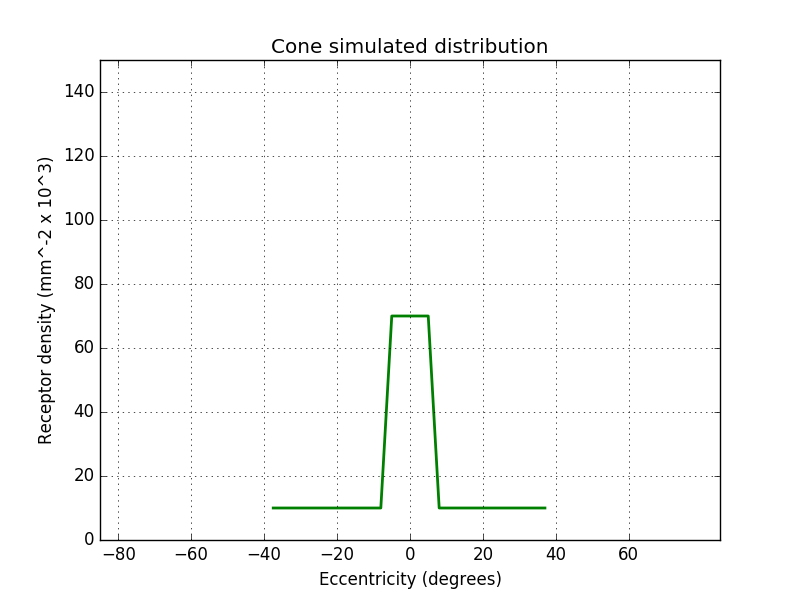
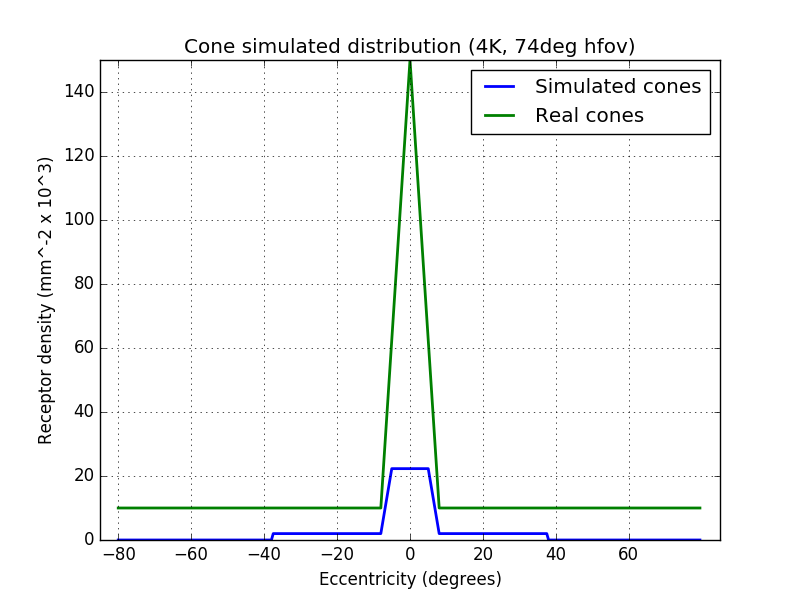
:bug: fix camera equivalent density

Changed region(s): [[0.1562, 0.06, 0.9062, 0.9]]

diff --git a/pages/artificial_intelligence/sensors/retina/retina_modelisation.md b/pages/artificial_intelligence/sensors/retina/retina_modelisation.md
@@ -12,7 +12,8 @@ Just to recap the context of this simulation, my final goal is to create a biomi
 Plan
 - [Retina Modelisation from a Camera](#retina-modelisation-from-a-camera)
   - [Photo Receptors Simulation](#photo-receptors-simulation)
-    - [Cones inside the Fovea](#cones-inside-the-fovea)
+    - [Pixel density equivalence](#pixel-density-equivalence)
+    - [Cones density inside the Fovea](#cones-density-inside-the-fovea)
     - [Outside of the fovea](#outside-of-the-fovea)
     - [Simulated cones distribution](#simulated-cones-distribution)
     - [Pixel limitations](#pixel-limitations)
@@ -22,7 +23,7 @@ Plan
     - [How many Ganglionar cells](#how-many-ganglionar-cells)
     - [How many cones per parasol cells?](#how-many-cones-per-parasol-cells)
   - [Notes](#notes)
-- [Biblio](#biblio)
+  - [Biblio](#biblio)
 
 ----------------------------------------------------------
 ## Photo Receptors Simulation
@@ -56,23 +57,13 @@ The main issue is to consider the repartition of the cones inside the retina!
     <img src="img/copyleft_logo.png" height="12" alt="copy-left" />
 </center>
 
-### Cones inside the Fovea
+### Pixel density equivalence
+The pixel density per mm² is constant in a camera. They form a grid with a constant space between them. However, we cannot use the real pixel density directly because the focal length is not the same as the one in the eye.
+To get an equivalence with the cone density, we need to determine how many pixels there are in 5° which represent the fovea surface (1.5mm diameter). This number is mainly dependent on 2 properties of the camera: the resolution and the field of view.  I will use a 4K smartphone camera as example.
 
-The fovea area contains approximately 200 000 cones [7] with a field of view around 5°.
-
-We can estimate the diameter of the fovea in 'cones' using the area of a disc.
-
-The fovea has a diameter of $\sqrt(\frac{200.000}{\pi})\times2 \approx 504$ cones which represents $1.5mm$
-
-We need to determine 2 values:
-- how many pixel per cones inside the fovea
-- how many pixel per cones outside the fovea
-
-Let see how many pixels we have in 5° with a 4K camera from a smartphone.
-
-First I need to find the angular field of view of my smartphone. I could not find mine in the datasheet so estimated it. To do this chose an object, I positioned the camera so that the object took exactly the width of my camera view. Then I used simple trigonometry relations.
+First you need to find the angular field of view of your camera. I could not find mine in the datasheet so estimated it. To do this choose an object, put your camera so that the object takes exactly the width of your camera view. Then use simple trigonometry relations $(1) (2)$.
 <center>
-<a href="https://thebrain.mcgill.ca/flash/i/i_02/i_02_cl/i_02_cl_vis/i_02_cl_vis.html" rel="some text"><img src="img/pinhole.jpg" alt="Cones/Rods distribution" /></a>
+<a href="" rel="some text"><img src="img/pinhole.jpg" alt="Cones/Rods distribution" /></a>
 </center>
 <center>
     <i>Fig. 4. Camera field of view &alpha;  </i>
@@ -86,40 +77,64 @@ First I need to find the angular field of view of my smartphone. I could not fin
 
 from $(1)$ we can deduce that:
 
-\begin{equation}alpha = 2\times\tan(\frac{L}{2D})\end{equation}
+\begin{equation}alpha = 2\times\arctan(\frac{L}{2D})\end{equation}
 
 With my phone camera, I measured $L = 480 mm$ and $D = 320mm$. This give an horizontal field of view around 74°
 
-To determine the diameter in pixels of 5° at the center of my camera $(p_f)$, I need to use the formula $(3)$ with $alpha_f = 5°$. It gives me 224 horizontal pixels. This means that there are **157 632** pixels in 5° disk ( $\pi\times R^2$ with $R=224/2$ ).
+To get the pixel density equivalence we need to divide the number of pixels within 5° by the equivalent surface in the retina: 1.5mm².
 
-\begin{equation}p_f = \texttt{total_pixels_width}\times\frac{l_f}{L}\end{equation}
+To determine the diameter in pixels of 5° at the center of your camera $(d_p)$, you can use the formula $(3)$ with $alpha_f = 5°$. In my case, it gives me 224 horizontal pixels. This means that there are **39408** pixels in 5° disk ( $\pi\times R^2$ with $R=224/2$ ).
+
+\begin{equation}d_p = \texttt{total_pixels_width}\times\frac{l_f}{L}\end{equation}
 
 with
 
-\begin{equation}l_f = 2\times D\tan(\frac{\alpha_f}{2})\end{equation} $(4)$ deduced from $(1)$.
+\begin{equation}l_f = 2\times D\tan(\frac{\alpha_f}{2})\end{equation}
 
-$l_f$ represent the maximum width of an object at a distance D that can be seen within $\alpha_f$ degrees
+$(4)$ deduced from $(1)$. $l_f$ represent the maximum width of an object at a distance D that can be seen within $\alpha_f$ degrees
 
-To recap, there are 200.000 cones vs 157 632 pixels in the fovea. I can only represent 79% of the cones in the fovea. The overall cone density inside the fovea is 88.880 cones/mm² with the camera we can reach only 70 058 cones/mm² *Here I made the assumption that the density of cones were constant in the fovea however it is not the case. There is an area called FAZ (foveal avascular zone) that has a higher density. I flatten this because the camera is already overwhelmed ...*
+Now that we have the total number of pixels in 5° we can just divide it by 1.5mm² to get the equivalent pixel density. Note in the equation below I used directly the diameter instead of the radius but its equivalent.
+
+\begin{equation}\texttt{pix_equ_density} = \frac{\pi\times d_p^2}{\pi\times 1.5^2}\end{equation}
+
+
+In conclusion, the equivalent pixel density of the smartphone is **22 300 pixels/mm² inside the retina**
+
+### Cones density inside the Fovea
+The cone density in the fovea peaks at 150 000 cones/mm² in FAZ (foveal avascular zone) and decrease quickly.
+The total fovea area contains approximately 200 000 cones [7] with a field of view around 5°. We can deduce that the average density inside the fovea is 113 000 cone/mm² ($\frac{200000}{\pi\times (\frac{1.5}{1})^2}$)
+
+With the 4K camera I have no choice but to under sample the foveal cone density by a factor 0.20 ($\frac{22 300}{113000}$)
+
+To get another view on the difference their are 39400 pixels vs 200 000 cones!
 
 ### Outside of the fovea
 
-Outside the fovea, the cone density is 10.000 cones per mm². In a surface equivalent to the fovea this represent $\pi \times \frac{1.5}{2}^2*10 000 = 17 671$ cones with a diameter of $\sqrt(\frac{17 671}{\pi})\times2 \approx 150$. The ratio pixels per cone is 8.9
+Outside the fovea, the cone density is 10.000 cones per mm². This part at least we can simulate it without downsampling by using one pixel out of two.
 
 ### Simulated cones distribution
 
-As we does not have enough pixels in the fovea I decided to flatten the retina peak and I linearized the transition (for simplicity)
+If we try to simulate as close as possible the human cone density we have the following table:
+| position      | pixel per cone ratio |simulated density | real cone density         | real max density  |
+|:-:            |:-:                   |:-:               |:-:                        |:-:                |
+| in fovea      | 0.20                 | 22 300 cones/mm² | 113 000 cones/mm² (avg)   | 150 000 cones/mm² |
+| outside fovea | 2.2                  | 10 000 cones/mm² | 10 000 cones/mm² (avg)    | 10 000 cones/mm²  |
+
+Instead of having a factor 10 between the foveal density and outer density we have only a factor 2.
+
+For the simulation I preferred to keep this factor by decreasing the outer ratio. This means that my simulated retina is equivalent to a human eye that has lost 80% its cones. There are 2 ways to reduce this gap, by using a reduced field of view with a zoom or by using a camera with a higher resolution. For my use case it 'should' be enough so I kept this.
 
 | position      | pixel per cone ratio |simulated density | real cone density         | real max density  |
 |:-:            |:-:                   |:-:               |:-:                        |:-:                |
-| in fovea      | 0.79                 | 70 058 cones/mm² | 88 888 cones/mm² (avg)    | 150 000 cones/mm² |
-| outside fovea | 8.9                  | 10 000 cones/mm² | 10 000 cones/mm² (avg)    | 10 000 cones/mm²  |
+| in fovea      | 0.20                 | 22 300 cones/mm² | 113 000 cones/mm² (avg)   | 150 000 cones/mm² |
+| outside fovea | 2.2 (11 for 2000)    |  2 000 cones/mm² | 10 000 cones/mm² (avg)    | 10 000 cones/mm²  |
+
 
 <center>
-<a href="https://thebrain.mcgill.ca/flash/i/i_02/i_02_cl/i_02_cl_vis/i_02_cl_vis.html" rel="some text"><img src="img/cone_simulated_distribution.png" alt="Cones/Rods distribution" /></a>
+<a href="" rel="some text"><img src="img/cone_simulated_distribution.png" alt="Cones/Rods distribution" /></a>
 </center>
 <center>
-    <i>Fig. 3. Simulated Cones density from a 4K camrea with a fov of 74°</i>
+    <i>Fig. 3. Simulated Cones density from a 4K camera with a fov of 74°</i>
 </center>
 
 ### Pixel limitations
@@ -252,7 +267,7 @@ retinal periphery, attaining a maximum diameter of -225 Am. [4]
 
 0.5 mm representing 1.5°
 
-# Biblio
+## Biblio
 
 [1][The brain from top to bottom](https://thebrain.mcgill.ca/flash/i/i_02/i_02_cl/i_02_cl_vis/i_02_cl_vis.html)
 
